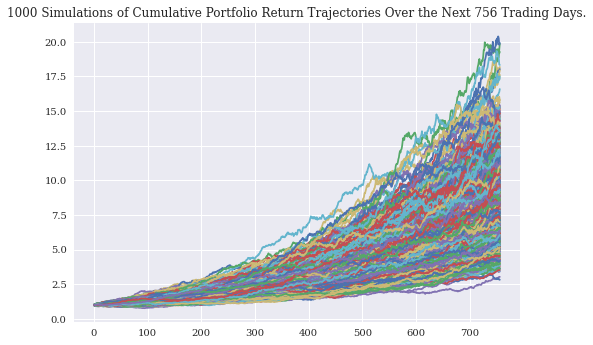
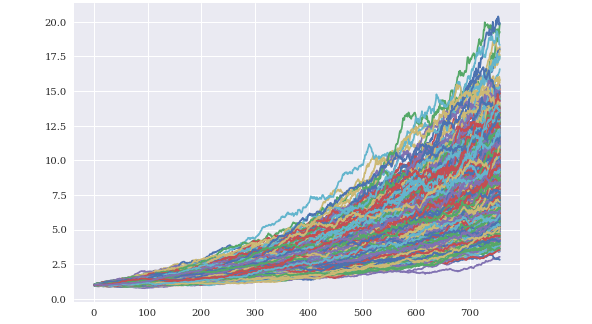
Updated README.md

diff --git a/.ipynb_checkpoints/README-checkpoint.md b/.ipynb_checkpoints/README-checkpoint.md
@@ -70,7 +70,9 @@ To provide a profitable portfolio I need to accomplish six main tasks:
 
 ### Forecasting
 
-<img src="Images/portfolio_simulation.png" />
+| 1000 Simulations of Cumulative Portfolio Return Trajectories Over the Next 756 Trading Days |
+| ------------------------------------------------------------------------------------------- |
+| <img src="Images/portfolio_simulation.png" /> |
 
 * __Method__: Using the Monte Carlo simulation, the cumulative returns of the portfolio is computed 1000 times for the next 3 years.
 

diff --git a/README.md b/README.md
@@ -70,7 +70,9 @@ To provide a profitable portfolio I need to accomplish six main tasks:
 
 ### Forecasting
 
-<img src="Images/portfolio_simulation.png" />
+| 1000 Simulations of Cumulative Portfolio Return Trajectories Over the Next 756 Trading Days |
+| ------------------------------------------------------------------------------------------- |
+| <img src="Images/portfolio_simulation.png" /> |
 
 * __Method__: Using the Monte Carlo simulation, the cumulative returns of the portfolio is computed 1000 times for the next 3 years.
 
